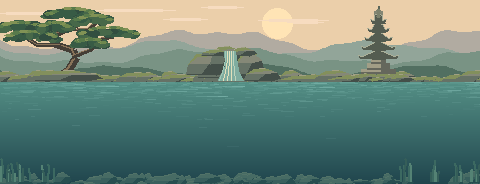
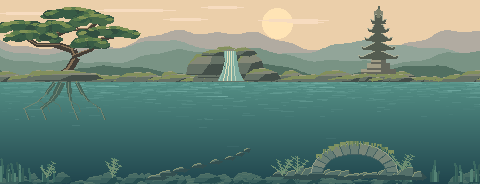
Extend the garden underwater and float frogbit above medaka

diff --git a/reef.js b/reef.js
@@ -43,8 +43,8 @@
   river:['Mountain Stream','山と針葉樹を背にした岩場の早瀬。その下を泳ぐ川魚'],
   marsh:['Marsh','夕暮れのガマの穂とトンボ。沈んだ枝の間を泳ぐオタマジャクシ'],
   pond:['Lily Pond','岸辺の柳と水面のスイレン。葉の下を泳ぐ錦鯉'],
-  goldfish:['Bonsai Garden','松の盆栽と五重の石塔の間を滝が流れ、池に金魚が泳ぐ日本庭園'],
-  medaka:['Suribachi Bowl','放射状のすり目が透ける陶器のすり鉢を上から眺める、メダカの水槽']
+  goldfish:['Bonsai Garden','松の盆栽と五重の石塔の間を滝が流れ、水中の石橋や飛び石の間を金魚が泳ぐ日本庭園'],
+  medaka:['Suribachi Bowl','すり鉢の水面に浮かぶ水草の下を、メダカが泳ぐ水槽']
  };
  let habitat='reef';
  function buildScenery(id){
@@ -292,7 +292,7 @@
   const art=new Image();
   shoreArt[id]=art;
   art.onload=()=>{if(habitat===id)draw()};
-  art.src='scenery/'+id+'.png'+(id==='goldfish'?'?v=garden':'');
+  art.src='scenery/'+id+'.png'+(id==='goldfish'?'?v=submerged':'');
  }
  // Each koi keeps its own flank markings as it swims and turns.
  const koiCoats=[
@@ -346,6 +346,35 @@
   box(-1,-1,4,3,body);box(2,-1,2,3,body);box(0,0,3,1,'#f3dcab');
   box(2,-1,1,1,'#435754');box(2,1,1,1,'#435754');c.restore()
  }
+ // Frogbit rosettes float on the surface, above the swimming medaka.
+ const frogbitLeaves=[
+  '  aaa  ',' abbbba','abccbbb','abbdcbb',' abbdbb','  aabb '
+ ];
+ const frogbitColors={a:'#446c50',b:'#7fa35d',c:'#abbc6f',d:'#607f4e'};
+ const rosettes=[[123,65,0],[137,72,2],[330,116,5],[346,111,3],[352,123,1],[204,41,4]];
+ function floatingPlants(){
+  for(const [anchorX,anchorY,phase] of rosettes){
+   const x=anchorX+Math.round(Math.sin(time*.22+phase)*2);
+   const y=anchorY+Math.round(Math.cos(time*.27+phase)*1.4);
+   for(let root=0;root<3;root++){
+    for(let j=1;j<=9+root*2;j++){
+     const offset=Math.sin(time*.43+phase+j*.22)*j*.23;
+     box(x+(root-1)*j*.45+offset,y+j*.65,1,1,'#527766')
+    }
+   }
+   for(let leaf=0;leaf<4;leaf++){
+    const angle=phase+leaf*1.58;
+    const lx=x+Math.cos(angle)*4,ly=y+Math.sin(angle)*3;
+    for(let row=0;row<frogbitLeaves.length;row++){
+     for(let col=0;col<frogbitLeaves[row].length;col++){
+      const color=frogbitColors[frogbitLeaves[row][col]];
+      if(color)box(lx+col-3,ly+row-3,1,1,color)
+     }
+    }
+   }
+   box(x,y,2,1,'#c0c382')
+  }
+ }
  function drawShore(id){
   const art=shoreArt[id];
   if(!art.complete||!art.naturalWidth){box(0,0,W,H,'#436771');return}
@@ -364,6 +393,7 @@
     }
    }
    stocks[id].forEach(id==='goldfish'?drawGoldfish:drawMedaka);
+   if(id==='medaka')floatingPlants();
    return
   }
   const river=id==='river',marsh=id==='marsh';

diff --git a/index.html b/index.html
@@ -11,4 +11,4 @@
 <div class="layer" data-sound="waves"><button type="button" aria-label="浜辺の波を再生" aria-pressed="false"><span aria-hidden="true">▶</span><strong>浜辺の波</strong></button><input type="range" min="0" max="100" value="35" aria-label="浜辺の波の音量"><output>35%</output></div>
 <div class="layer" data-sound="falls"><button type="button" aria-label="森の小さな滝を再生" aria-pressed="false"><span aria-hidden="true">▶</span><strong>森の小さな滝</strong></button><input type="range" min="0" max="100" value="35" aria-label="森の小さな滝の音量"><output>35%</output></div>
 </div><details class="credits"><summary>録音クレジット</summary><p>エアポンプの泡音：<a href="https://freesound.org/people/CHallSmith/sounds/870769/">Aquarium Pump and Bubbles — CHallSmith</a>（<a href="https://creativecommons.org/publicdomain/zero/1.0/">CC0</a>）。音量とループを調整。</p><p>雨音：<a href="https://freesound.org/people/alex36917/sounds/524605/">rain ambience — alex36917</a><br>浜辺の波：<a href="https://freesound.org/people/Luftrum/sounds/48412/">oceanwavescrushing.wav — Luftrum</a><br>両音源は <a href="https://creativecommons.org/licenses/by/4.0/">CC BY 4.0</a>。Porrumentzio が編集した Blanket 版をループ用に調整。</p><p>森の小さな滝：<a href="https://freesound.org/people/Garuda1982/sounds/577820/">small waterfall in the forest sound effect — Garuda1982</a>（<a href="https://creativecommons.org/publicdomain/zero/1.0/">CC0</a>）。ループ用に調整。</p></details><p id="ambient-error" hidden role="alert"></p></section>
-</main><script src="reef.js?v=garden"></script><script src="app.js?v=cycle1"></script><script src="ambience.js?v=tankpump"></script></body></html>
+</main><script src="reef.js?v=submerged"></script><script src="app.js?v=cycle1"></script><script src="ambience.js?v=tankpump"></script></body></html>
